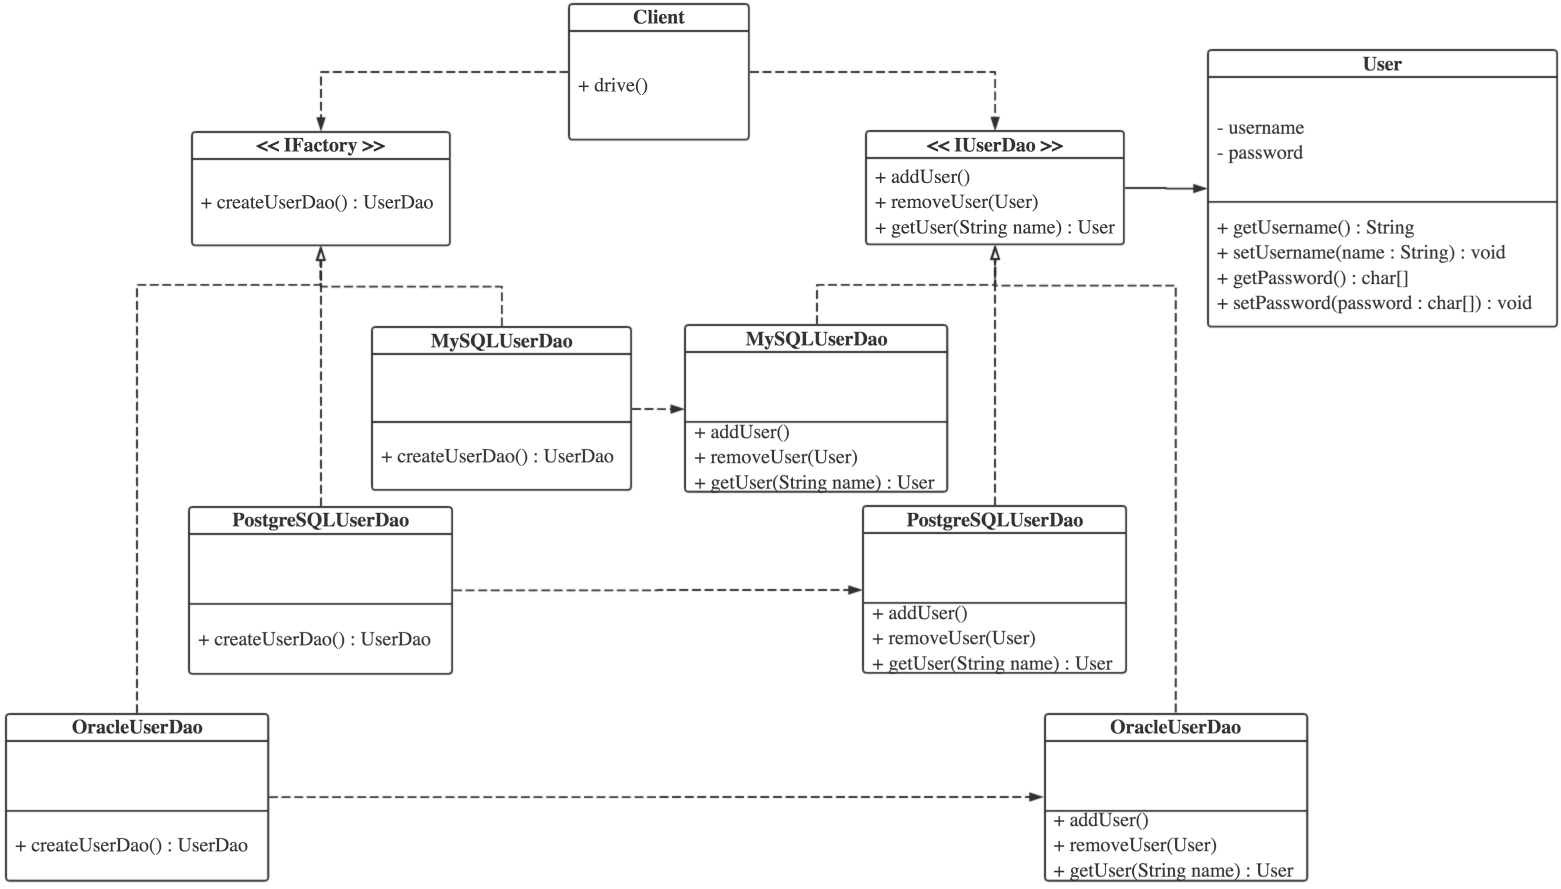
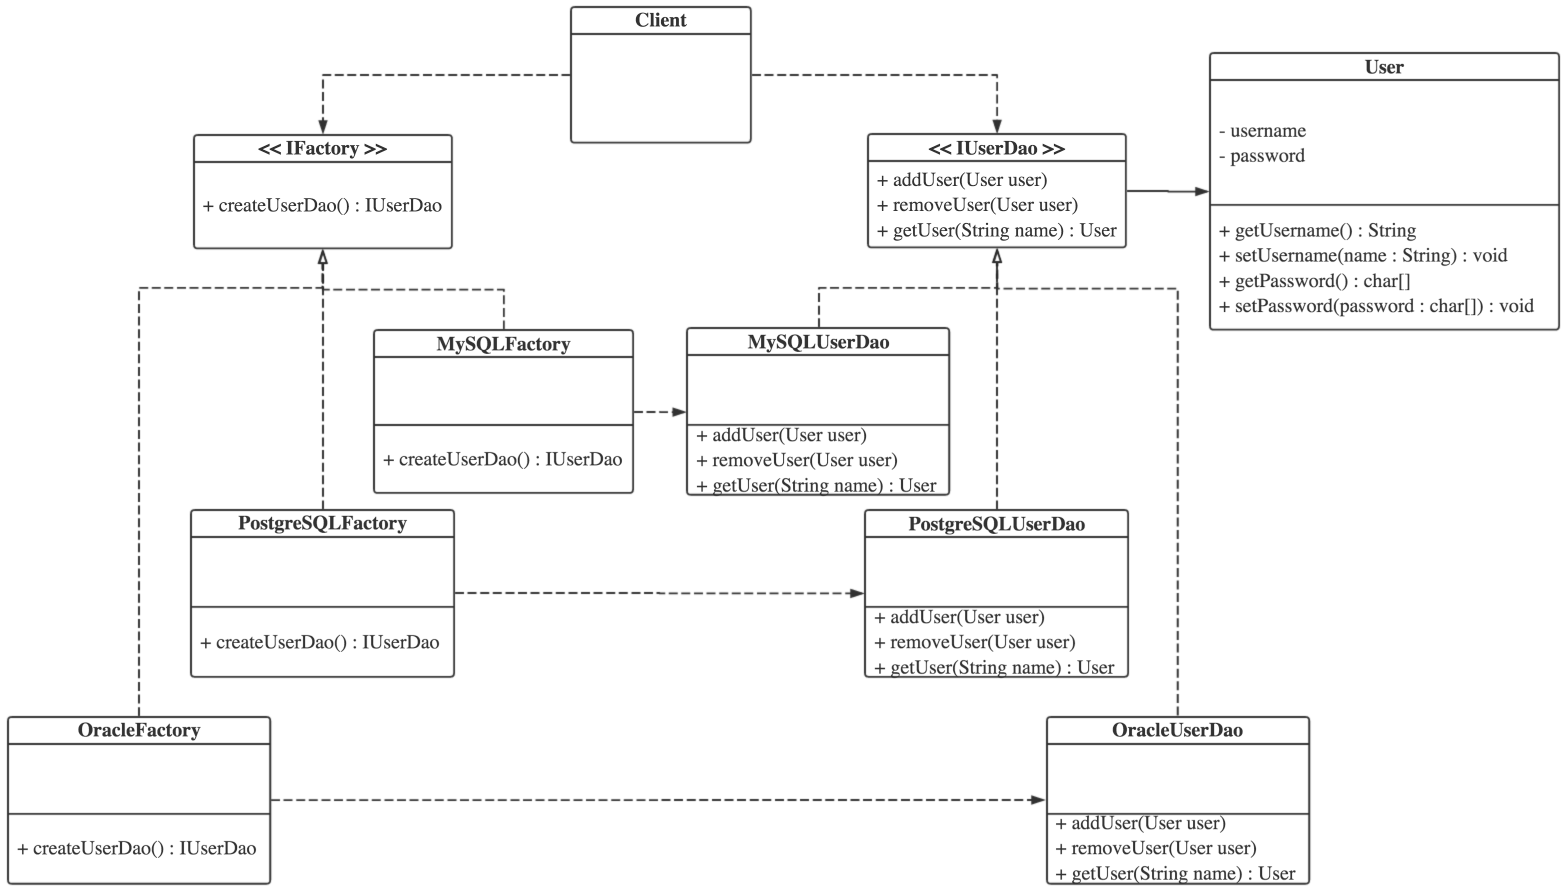
Submit factory method pattern and abstract factory pattern

diff --git a/source/_posts/design_pattern_1_simple_factory.md b/source/_posts/design_pattern_1_simple_factory.md
@@ -1,5 +1,5 @@
 ---
-title: java设计模式（一） 简单工厂模式不简单
+title: Java设计模式（一） 简单工厂模式不简单
 date: 2016-03-08 20:49:04
 permalink: design_pattern/simple_factory
 sticky: 7
@@ -22,7 +22,7 @@ categories:
   - Java
   - 设计模式
   - Design Pattern
-description: 本文介绍了简单工厂模式的概念，优缺点，实现方式，以及结合Annotation和反射的改良方案。最后给出了简单工厂模式在JDBC中的应用
+description: 本文介绍了简单工厂模式的概念，优缺点，实现方式，以及结合Annotation和反射的改良方案。同时介绍了简单工厂模式（未）遵循的OOP原则。最后给出了简单工厂模式在JDBC中的应用
 ---
 
 　　原创文章，转载请务必将下面这段话置于文章开头处。
@@ -203,7 +203,7 @@ public class CarFactory2 {
 }
 ```
 
-从上面代码中可以看到，之后如果需要引入新的Car，只需要在配置文件中指定该Car的完整类名（包括package名），CarFactory2即可通过反射将其实例化。实现了对扩展的开放，同时保证了对修改的关闭。熟悉Spring的读者应该会想到Spring IOC的实现。
+从上面代码中可以看到，之后如果需要引入新的Car，只需要在配置文件中指定该Car的完整类名（包括package名），CarFactory2即可通过反射将其实例化。实现了对扩展的开放，同时保证了对修改的关闭。熟悉Spring的读者应该会想到Spring IoC的实现。
 
 ## 注解让简单工厂模式不简单
 上例中使用反射做到了对扩展开放，对修改关闭。但有些时候，使用类的全名不太方便，使用别名会更合适。例如Spring中每个Bean都会有个ID，引用Bean时也会通过ID去引用。像Apache Nifi这样的数据流工具，在流程上使用了职责链模式，而对于单个Processor的创建则使用了工厂，对于用户自定义的Processor并不需要通过代码去注册，而是使用注解（为了更方便理解下面这段代码，请先阅读笔者另外一篇文章[《Java系列（一）Annotation（注解）》](http://www.jasongj.com/2016/01/17/Java1_注解Annotation/)）。
@@ -283,58 +283,80 @@ public class CarFactory3 {
 简单工厂模式（Simple Factory Pattern）又叫静态工厂方法模式（Static FactoryMethod Pattern）。专门定义一个类（如上文中的CarFactory1、CarFactory2、CarFactory3）来负责创建其它类的实例，由它来决定实例化哪个具体类，从而避免了在客户端代码中显式指定，实现了解耦。该类由于可以创建同一抽象类（或接口）下的不同子类对象，就像一个工厂一样，因此被称为工厂类。
 
 ## 简单工厂模式类图
-简单工厂模式类图所下所示
+简单工厂模式类图如下所示
 ![Simple factory pettern class diagram](http://www.jasongj.com/img/designpattern/simplefactory/simple_factory.png)
 
 ## 简单工厂模式角色划分
-工厂角色（如上文中的CarFactory1/2/3）：这是简单工厂模式的核心，由它负责创建所有的类的内部逻辑。当然工厂类必须能够被外界调用，创建所需要的产品对象。一般而言，工厂类提供一个静态方法，外部程序通过该方法创建所需对象。
-抽象产品角色(如上文中的Car)：简单工厂模式所创建的所有对象的父类。注意，这里的父类可以是接口也可以是抽象类，它负责描述所创建实例共有的公共接口。
-具体产品角色（如上文中的BMWCar，BenzCar，LandRoverCar）：简单工厂所创建的具体实例对象，这些具体的产品往往都拥有共同的父类。
+ - 工厂角色（如上文中的CarFactory1/2/3）：这是简单工厂模式的核心，由它负责创建所有的类的内部逻辑。当然工厂类必须能够被外界调用，创建所需要的产品对象。一般而言，工厂类提供一个静态方法，外部程序通过该方法创建所需对象。
+ - 抽象产品角色(如上文中的Car)：简单工厂模式所创建的所有对象的父类。注意，这里的父类可以是接口也可以是抽象类，它负责描述所创建实例共有的公共接口。
+ - 具体产品角色（如上文中的BMWCar，BenzCar，LandRoverCar）：简单工厂所创建的具体实例对象，这些具体的产品往往都拥有共同的父类。
 
 ## 简单工厂模式优点
  - 工厂类是整个简单工厂模式的关键所在。它包含必要的判断逻辑，能够根据外界给定的信息（配置，或者参数），决定究竟应该创建哪个具体类的对象。用户在使用时可以直接根据工厂类去创建所需的实例，而无需了解这些对象是如何创建以及如何组织的。有利于整个软件体系结构的优化。
  - 通过引入配置文件和反射，可以在不修改任何客户端代码的情况下更换和增加新的具体产品类，在一定程度上提高了系统的灵活性（如CarFactory2）。
  - 客户端无须知道所创建的具体产品类的类名，只需要知道具体产品类所对应的参数即可，对于一些复杂的类名，通过简单工厂模式可以减少使用者的记忆量（如CarFactory3）。
 
- ## 简单工厂模式与OOP原则
- ### 已遵循的原则
- - 单一职责原则
+
+# 简单工厂模式与OOP原则
+## 已遵循的原则
  - 依赖倒置原则
  - 迪米特法则
  - 里氏替换原则
+ - 接口隔离原则
 
- ### 未遵循的原则
+## 未遵循的原则
  - 开闭原则（如上文所述，利用配置文件+反射或者注解可以避免这一点）
+ - 单一职责原则（工厂类即要负责逻辑判断又要负责实例创建）
 
 
 ## 简单工厂模式缺点
- - 由于工厂类集中了所有实例的创建逻辑，这就直接导致一旦这个工厂出了问题，所有的客户端都会受到牵连.
+ - 由于工厂类集中了所有实例的创建逻辑，这就直接导致一旦这个工厂出了问题，所有的客户端都会受到牵连。
  - 由于简单工厂模式的产品是基于一个共同的抽象类或者接口，这样一来，产品的种类增加的时候，即有不同的产品接口或者抽象类的时候，工厂类就需要判断何时创建何种接口的产品，这就和创建何种种类的产品相互混淆在了一起，违背了单一职责原则，导致系统丧失灵活性和可维护性。
- - 正如上文提到的，一般情况下（如CarFactory1），简单工厂模式违背了“开放-关闭原则”，因为当我新增加一个产品的时候必须修改工厂类，相应的工厂类就需要重新编译一遍。但这一点可以利用反射（CarFactory3在本质上也是利用反射）在一定程度上解决（如CarFactory2）。
+ - 正如上文提到的，一般情况下（如CarFactory1），简单工厂模式违背了“开放-关闭原则”，因为当我们新增加一个产品的时候必须修改工厂类，相应的工厂类就需要重新编译一遍。但这一点可以利用反射（CarFactory3在本质上也是利用反射）在一定程度上解决（如CarFactory2）。
  - 简单工厂模式由于使用了静态工厂方法，造成工厂角色无法形成基于继承的等级结构。这一点笔者持保留态度，因为继承不是目的，如果没有这样的需求，这一点完全不算缺点，例如JDBC的DriverManager。
 
 # 简单工厂模式在JDK中的典型应用
 简单工厂模式在JDK中最典型的应用要数JDBC了。可以把关系型数据库认为是一种抽象产品，各厂商提供的具体关系型数据库（MySQL，PostgreSQL，Oracle）则是具体产品。DriverManager是工厂类。应用程序通过JDBC接口使用关系型数据库时，并不需要关心具体使用的是哪种数据库，而直接使用DriverManager的静态方法去得到该数据库的Connection。
+```java
+package com.jasongj.client;
 
+import java.sql.Connection;
+import java.sql.DriverManager;
+import java.sql.PreparedStatement;
+import java.sql.SQLException;
 
+import org.slf4j.Logger;
+import org.slf4j.LoggerFactory;
 
+public class JDBC {
+  
+  private static final Logger LOG = LoggerFactory.getLogger(JDBC.class);
 
+  public static void main(String[] args) {
+    Connection conn = null;
+    try {
+      Class.forName("org.apache.hive.jdbc.HiveDriver");
+      conn = DriverManager.getConnection("jdbc:hive2://127.0.0.1:10000/default");
+      PreparedStatement ps = conn.prepareStatement("select count(*) from test.test");
+      ps.execute();
+    } catch (SQLException ex) {
+      LOG.warn("Execute query failed", ex);
+    } catch(ClassNotFoundException e) {
+      LOG.warn("Load Hive driver failed", e);
+    } finally {
+      if(conn != null ){
+        try {
+          conn.close();
+        } catch (SQLException e) {
+          // NO-OPT
+        }
+      }
+    }
+  }
+}
+```
 
-
-
-
-
-
-
-
-
-
-
-
-
-
-
-
-
-
-
+# Java设计模式系列
+- [Java设计模式（一） 简单工厂模式不简单](//www.jasongj.com/design_pattern/simple_factory/)
+- [Java设计模式（二） 工厂方法模式](//www.jasongj.com/design_pattern/factory_method/)
+- [Java设计模式（三） 抽象工厂模式](//www.jasongj.com/design_pattern/abstract_factory/)

diff --git a/source/_posts/design_pattern_2_factory_method.md b/source/_posts/design_pattern_2_factory_method.md
@@ -1,0 +1,103 @@
+---
+title: Java设计模式（二） 工厂方法模式
+date: 2016-04-02 08:00:01
+permalink: design_pattern/factory_method
+keywords:
+  - java
+  - Java
+  - java 工厂方法
+  - 设计模式
+  - 工厂方法模式
+  - java 设计模式
+  - Jason's Blog
+  - 郭俊 Jason
+  - 大数据架构
+tags:
+  - Java
+  - 设计模式
+  - Design Pattern
+categories:
+  - Java
+  - 设计模式
+  - Design Pattern
+description: 本文介绍了工厂方法模式的概念，优缺点，实现方式，UML类图，并介绍了工厂方法（未）遵循的OOP原则
+---
+
+　　原创文章，转载请务必将下面这段话置于文章开头处。
+　　本文转发自[**Jason's Blog**](http://www.jasongj.com)，[原文链接](http://www.jasongj.com/design_pattern/factory_method/)　[http://www.jasongj.com/design_pattern/factory_method/](http://www.jasongj.com/design_pattern/factory_method/)
+
+
+# 工厂方法模式解决的问题
+上文《[简单工厂模式不简单](http://www.jasongj.com/design_pattern/simple_factory/)》中提到，简单工厂模式有如下缺点
+ - 由于工厂类集中了所有实例的创建逻辑，这就直接导致一旦这个工厂出了问题，所有的客户端都会受到牵连。
+ - 由于简单工厂模式的产品是基于一个共同的抽象类或者接口，这样一来，产品的种类增加的时候，即有不同的产品接口或者抽象类的时候，工厂类就需要判断何时创建何种接口的产品，这就和创建何种种类的产品相互混淆在了一起，违背了单一职责原则，导致系统丧失灵活性和可维护性。
+ - 简单工厂模式违背了“开放-关闭原则”，因为当我们新增加一个产品的时候必须修改工厂类，相应的工厂类就需要重新编译一遍。
+ - 简单工厂模式由于使用了静态工厂方法，造成工厂角色无法形成基于继承的等级结构。
+
+工厂方法模式可以解决这些问题
+
+# 工厂方法模式
+## 工厂方法模式介绍
+工厂方法模式（Factory Method Pattern）又称为工厂模式，也叫多态工厂模式或者虚拟构造器模式。在工厂方法模式中，工厂父类定义创建产品对象的公共接口，具体的工厂子类负责创建具体的产品对象。每一个工厂子类负责创建一种具体产品。
+
+## 工厂方法模式角色划分
+ - 抽象产品（或者产品接口）
+ - 具体产品
+ - 抽象工厂（或者工厂接口）
+ - 具体工厂
+
+## 工厂方法模式类图
+工厂模式类图如下
+![Factory Method Pattern Class Diagram](//www.jasongj.com/img/designpattern/factorymethod/factory_method.png)
+
+## 工厂方法模式使用方式
+如简单工厂模式直接使用静态工厂方法创建产品对象不同，在工厂方法，客户端通过实例化具体的工厂类，并调用其创建实例接口创建具体产品类的实例。根据依赖倒置原则，具体工厂类的实例由工厂接口引用，具体产品的实例由产品接口引用。具体调用代码如下
+```java
+package com.jasongj.client;
+
+import com.jasongj.dao.IUserDao;
+import com.jasongj.factory.IDaoFactory;
+import com.jasongj.factory.MySQLDaoFactory;
+
+public class Client {
+
+  public static void main(String[] args) {
+    IDaoFactory factory = new MySQLDaoFactory();
+    IUserDao userDao = factory.createUserDao();
+    userDao.getUser("admin");
+
+  }
+
+}
+```
+
+## 工厂方法模式示例代码
+本文所述工厂方法模式示例代码可从[作者Github](https://github.com/habren/JavaDesignPattern/tree/master/FactoryMethodPattern/src/main)下载
+
+## 工厂方法模式优点
+ - 因为每个具体工厂类只负责创建产品，没有简单工厂中的逻辑判断，因此符合单一职责原则。
+ - 与简单工厂模式不同，工厂方法并不使用静态工厂方法，可以形成基于继承的等级结构。
+ - 新增一种产品时，只需要增加相应的具体产品类和相应的工厂子类即可，相比于简单工厂模式需要修改判断逻辑而言，工厂方法模式更符合开-闭原则。
+
+## 工厂方法模式缺点
+ - 添加新产品时，除了增加新产品类外，还要提供与之对应的具体工厂类，系统类的个数将成对增加，在一定程度上增加了系统的复杂度，有更多的类需要编译和运行，会给系统带来一些额外的开销。
+ - 虽然保证了工厂方法内的对修改关闭，但对于使用工厂方法的类，如果要换用另外一种产品，仍然需要修改实例化的具体工厂。
+ - 一个具体工厂只能创建一种具体产品
+
+# 简单工厂模式与OOP原则
+## 已遵循的原则
+ - 依赖倒置原则
+ - 迪米特法则
+ - 里氏替换原则
+ - 接口隔离原则
+ - 单一职责原则（每个工厂只负责创建自己的具体产品，没有简单工厂中的逻辑判断）
+ - 开闭原则（增加新的产品，不像简单工厂那样需要修改已有的工厂，而只需增加相应的具体工厂类）
+
+## 未遵循的原则
+ - 开闭原则（虽然工厂对修改关闭了，但更换产品时，客户代码还是需要修改）
+
+
+# Java设计模式系列
+- [Java设计模式（一） 简单工厂模式不简单](//www.jasongj.com/design_pattern/simple_factory/)
+- [Java设计模式（二） 工厂方法模式](//www.jasongj.com/design_pattern/factory_method/)
+- [Java设计模式（三） 抽象工厂模式](//www.jasongj.com/design_pattern/abstract_factory/)

diff --git a/source/_posts/design_pattern_3_abstract_factory.md b/source/_posts/design_pattern_3_abstract_factory.md
@@ -1,0 +1,99 @@
+---
+title: Java设计模式（三） 抽象工厂模式
+date: 2016-04-09 20:39:46
+permalink: design_pattern/abstract_factory
+keywords:
+  - java
+  - Java
+  - java 抽象工厂
+  - 设计模式
+  - 抽象工厂模式
+  - java 设计模式
+  - Jason's Blog
+  - 郭俊 Jason
+  - 大数据架构
+tags:
+  - Java
+  - 设计模式
+  - Design Pattern
+categories:
+  - Java
+  - 设计模式
+  - Design Pattern
+description: 本文介绍了抽象工厂模式的概念，UML类图，优缺点，实现方式以及（未）遵循的OOP原则。
+---
+
+　　原创文章，转载请务必将下面这段话置于文章开头处。
+　　本文转发自[**Jason's Blog**](http://www.jasongj.com)，[原文链接](http://www.jasongj.com/design_pattern/abstract_factory/)　[http://www.jasongj.com/design_pattern/abstract_factory/](http://www.jasongj.com/design_pattern/abstract_factory/)
+
+
+# 抽象工厂模式解决的问题
+上文《[工厂方法模式](http://www.jasongj.com/design_pattern/factory_method/)》中提到，在工厂方法模式中一种工厂只能创建一种具体产品。而在抽象工厂模式中一种具体工厂可以创建多个种类的具体产品。
+
+
+# 抽象工厂模式
+## 抽象工厂模式介绍
+抽象工厂模式（Factory Method Pattern）中，抽象工厂提供一系列创建多个抽象产品的接口，而具体的工厂负责实现具体的产品实例。抽象工厂模式与工厂方法模式最大的区别在于抽象工厂中每个工厂可以创建多个种类的产品。
+
+## 抽象工厂模式类图
+抽象工厂模式类图如下
+![Factory Method Pattern Class Diagram](//www.jasongj.com/img/designpattern/abstractfactory/abstract_factory.png)
+
+## 抽象工厂模式角色划分
+ - 抽象产品（或者产品接口），如上文类图中的IUserDao，IRoleDao，IProductDao
+ - 具体产品，如PostgreSQLProductDao
+ - 抽象工厂（或者工厂接口），如IFactory
+ - 具体工厂，如果MySQLFactory
+ - 产品族，如Oracle产品族，包含OracleUserDao，OracleRoleDao，OracleProductDao
+
+
+
+## 抽象工厂模式使用方式
+与工厂方法模式类似，在创建具体产品时，客户端通过实例化具体的工厂类，并调用其创建目标产品的方法创建具体产品类的实例。根据依赖倒置原则，具体工厂类的实例由工厂接口引用，具体产品的实例由产品接口引用。具体调用代码如下
+```java
+package com.jasongj.client;
+
+import com.jasongj.dao.IUserDao;
+import com.jasongj.factory.IDaoFactory;
+import com.jasongj.factory.MySQLDaoFactory;
+
+public class Client {
+
+  public static void main(String[] args) {
+    IDaoFactory factory = new MySQLDaoFactory();
+    IUserDao userDao = factory.createUserDao();
+    userDao.getUser("admin");
+
+  }
+
+}
+```
+
+## 抽象工厂模式示例代码
+本文所述抽象工厂模式示例代码可从[作者Github](https://github.com/habren/JavaDesignPattern/tree/master/AbstractFactoryPattern/src/main)下载
+
+## 抽象工厂模式优点
+ - 因为每个具体工厂类只负责创建产品，没有简单工厂中的逻辑判断，因此符合单一职责原则。
+ - 与简单工厂模式不同，抽象工厂并不使用静态工厂方法，可以形成基于继承的等级结构。
+ - 新增一个产品族（如上文类图中的MySQLUserDao，MySQLRoleDao，MySQLProductDao）时，只需要增加相应的具体产品和对应的具体工厂类即可。相比于简单工厂模式需要修改判断逻辑而言，抽象工厂模式更符合开-闭原则。
+
+## 抽象工厂模式缺点
+ - 新增产品种类（如上文类图中的UserDao，RoleDao，ProductDao）时，需要修改工厂接口（或者抽象工厂）及所有具体工厂，此时不符合开-闭原则。抽象工厂模式对于新的产品族符合开-闭原则而对于新的产品种类不符合开-闭原则，这一特性也被称为开-闭原则的倾斜性。
+
+# 简单工厂模式与OOP原则
+## 已遵循的原则
+ - 依赖倒置原则（工厂构建产品的方法均返回产品接口而非具体产品，从而使客户端依赖于产品抽象而非具体）
+ - 迪米特法则
+ - 里氏替换原则
+ - 接口隔离原则
+ - 单一职责原则（每个工厂只负责创建自己的具体产品族，没有简单工厂中的逻辑判断）
+ - 开闭原则（增加新的产品族，不像简单工厂那样需要修改已有的工厂，而只需增加相应的具体工厂类）
+
+## 未遵循的原则
+ - 开闭原则（虽然对新增产品族符合开-闭原则，但对新增产品种类不符合开-闭原则）
+
+
+# Java设计模式系列
+- [Java设计模式（一） 简单工厂模式不简单](//www.jasongj.com/design_pattern/simple_factory/)
+- [Java设计模式（二） 工厂方法模式](//www.jasongj.com/design_pattern/factory_method/)
+- [Java设计模式（三） 抽象工厂模式](//www.jasongj.com/design_pattern/abstract_factory/)

diff --git a/source/_posts/SQL5_CTE.md b/source/_posts/SQL5_CTE.md
@@ -61,7 +61,7 @@ GROUP BY region, product;
 当然，本例也可以不使用CTEs而使用两层嵌套子查询来实现，但使用CTEs更简单，更清晰，可读性更强。
 
 ## 在WITH中使用数据修改语句
-文章开头处提到，WITH中可以不仅可以使用`SELECT`语句，同时还能使用`DELETE`，`UPDATE`，`INSERT`语句。因此，可以使用WITh，在一条SQL语句中进行不同的操作，如下例所示。
+文章开头处提到，WITH中可以不仅可以使用`SELECT`语句，同时还能使用`DELETE`，`UPDATE`，`INSERT`语句。因此，可以使用WITH，在一条SQL语句中进行不同的操作，如下例所示。
 ```sql
 WITH moved_rows AS (
   DELETE FROM products
@@ -89,7 +89,7 @@ DELETE FROM bar;
 ```
 ## WITH使用注意事项
 1. WITH中的数据修改语句会被执行一次，并且肯定会完全执行，无论主语句是否读取或者是否读取所有其输出。而WITH中的SELECT语句则只输出主语句中所需要记录数。
-2. WITh中使用多个子句时，这些子句和主语句会并行执行，所以当存在多个修改子语句修改相同的记录时，它们的结果不可预测。
+2. WITH中使用多个子句时，这些子句和主语句会并行执行，所以当存在多个修改子语句修改相同的记录时，它们的结果不可预测。
 3. 所有的子句所能“看”到的数据集是一样的，所以它们看不到其它语句对目标数据集的影响。这也缓解了多子句执行顺序的不可预测性造成的影响。
 4. 如果在一条SQL语句中，更新同一记录多次，只有其中一条会生效，并且很难预测哪一个会生效。
 5. 如果在一条SQL语句中，同时更新和删除某条记录，则只有更新会生效。
@@ -253,7 +253,7 @@ VALUES('A', 'B', 3),
  - 因为该图有环，为避免无限循环，同时为了计算路径，将经过的结点存于数据中，当下一个结点已经在数据中时，说明该结点已被计算。
  - 最终可算出所有可能的路径及其总权重
 
- 实现如下
+实现如下
 ```sql
  WITH RECURSIVE edges AS (
   SELECT id, neighbor, value FROM graph

diff --git a/source/_posts/Java1_注解Annotation.md b/source/_posts/Java1_注解Annotation.md
@@ -16,10 +16,8 @@ keywords:
   - java 注解
   - java annotation
 tags:
-  - Design Pattern
   - Java
 categories:
-  - Design Pattern
   - Java
 description: 本文介绍了Java Annotation的概念及Java提供的四种Meta Annotation的功能，并结合实例详解了自定义Annotation的方法和注意事项
 ---
